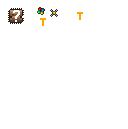
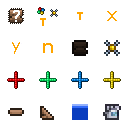
Common and Tile variable textures

diff --git a/ValueProperties/Tile/Mechanic.cs b/ValueProperties/Tile/Mechanic.cs
@@ -14,6 +14,8 @@ namespace TerraIntegration.ValueProperties.Tile
         public override string PropertyDisplay => "Is actuated";
         public override Type VariableReturnType => typeof(Values.Boolean);
 
+        public override SpriteSheetPos SpriteSheetPos => new(TileSheet, 2, 1);
+
         public override VariableValue GetProperty(ComponentSystem system, Values.Tile value, List<Error> errors)
             => new Values.Boolean(value.Actuated);
     }
@@ -23,6 +25,8 @@ namespace TerraIntegration.ValueProperties.Tile
         public override string PropertyName => "actuator";
         public override string PropertyDisplay => "Has actuator";
         public override Type VariableReturnType => typeof(Values.Boolean);
+
+        public override SpriteSheetPos SpriteSheetPos => new(TileSheet, 3, 1);
 
         public override VariableValue GetProperty(ComponentSystem system, Values.Tile value, List<Error> errors)
             => new Values.Boolean(value.Actuator);
@@ -34,6 +38,8 @@ namespace TerraIntegration.ValueProperties.Tile
         public override string PropertyDisplay => "Has red wire";
         public override Type VariableReturnType => typeof(Values.Boolean);
 
+        public override SpriteSheetPos SpriteSheetPos => new(TileSheet, 0, 2);
+
         public override VariableValue GetProperty(ComponentSystem system, Values.Tile value, List<Error> errors)
             => new Values.Boolean(value.RedWire);
     }
@@ -43,6 +49,8 @@ namespace TerraIntegration.ValueProperties.Tile
         public override string PropertyName => "wireGreen";
         public override string PropertyDisplay => "Has green wire";
         public override Type VariableReturnType => typeof(Values.Boolean);
+
+        public override SpriteSheetPos SpriteSheetPos => new(TileSheet, 1, 2);
 
         public override VariableValue GetProperty(ComponentSystem system, Values.Tile value, List<Error> errors)
             => new Values.Boolean(value.GreenWire);
@@ -54,6 +62,8 @@ namespace TerraIntegration.ValueProperties.Tile
         public override string PropertyDisplay => "Has blue wire";
         public override Type VariableReturnType => typeof(Values.Boolean);
 
+        public override SpriteSheetPos SpriteSheetPos => new(TileSheet, 2, 2);
+
         public override VariableValue GetProperty(ComponentSystem system, Values.Tile value, List<Error> errors)
             => new Values.Boolean(value.BlueWire);
     }
@@ -63,6 +73,8 @@ namespace TerraIntegration.ValueProperties.Tile
         public override string PropertyName => "wireYellow";
         public override string PropertyDisplay => "Has yellow wire";
         public override Type VariableReturnType => typeof(Values.Boolean);
+
+        public override SpriteSheetPos SpriteSheetPos => new(TileSheet, 3, 2);
 
         public override VariableValue GetProperty(ComponentSystem system, Values.Tile value, List<Error> errors)
             => new Values.Boolean(value.YellowWire);

diff --git a/ValueProperties/Tile/Frame.cs b/ValueProperties/Tile/Frame.cs
@@ -1,8 +1,5 @@
 using System;
 using System.Collections.Generic;
-using System.Linq;
-using System.Text;
-using System.Threading.Tasks;
 using TerraIntegration.Basic;
 using TerraIntegration.DataStructures;
 using TerraIntegration.Values;
@@ -14,6 +11,8 @@ namespace TerraIntegration.ValueProperties.Tile
         public override Type[] ValueTypes => new[] { typeof(Values.Tile), typeof(Wall) };
         public override string PropertyName => "frameX";
         public override string PropertyDisplay => "Frame X";
+
+        public override SpriteSheetPos SpriteSheetPos => new(TileSheet, 3, 0);
 
         public override Type VariableReturnType => typeof(Integer);
 
@@ -33,6 +32,8 @@ namespace TerraIntegration.ValueProperties.Tile
         public override string PropertyName => "frameY";
         public override string PropertyDisplay => "Frame Y";
 
+        public override SpriteSheetPos SpriteSheetPos => new(TileSheet, 0, 1);
+
         public override Type VariableReturnType => typeof(Integer);
 
         public override VariableValue GetProperty(ComponentSystem system, VariableValue value, List<Error> errors)
@@ -50,6 +51,8 @@ namespace TerraIntegration.ValueProperties.Tile
         public override Type[] ValueTypes => new[] { typeof(Values.Tile), typeof(Wall) };
         public override string PropertyName => "frameNum";
         public override string PropertyDisplay => "Frame Number";
+
+        public override SpriteSheetPos SpriteSheetPos => new(TileSheet, 1, 1);
 
         public override Type VariableReturnType => typeof(Integer);
 

diff --git a/DebugCommand.cs b/DebugCommand.cs
@@ -105,7 +105,7 @@ namespace TerraIntegration
                 if (val.Type != "any" && val.Type != "unloaded")
                 {
                     allValues++;
-                    if (val.Texture is null && (val.SpriteSheetPos.SpriteSheet ?? val.DefaultSpriteSheet) is null)
+                    if (val.Texture is null && !val.SpriteSheetPos.HasValue)
                         values.Add(val.Type);
                 }
 
@@ -113,7 +113,7 @@ namespace TerraIntegration
                 if (var.Type != "any" && var.Type != "unloaded")
                 {
                     allVariables++;
-                    if (var.Texture is null && (var.SpriteSheetPos.SpriteSheet ?? var.DefaultSpriteSheet) is null)
+                    if (var.Texture is null && !var.SpriteSheetPos.HasValue)
                         variables.Add(var.Type);
                 }
 

diff --git a/Basic/Variable.cs b/Basic/Variable.cs
@@ -16,6 +16,7 @@ namespace TerraIntegration.Basic
         internal readonly static SpriteSheet CollectionSheet = new("TerraIntegration/Assets/Types/collection", new(32, 32));
         internal readonly static SpriteSheet BooleanSheet = new("TerraIntegration/Assets/Types/boolean", new(32, 32));
         internal readonly static SpriteSheet ComparingSheet = new("TerraIntegration/Assets/Types/comparing", new(32, 32));
+        internal readonly static SpriteSheet TileSheet = new("TerraIntegration/Assets/Types/tile", new(32, 32));
 
         public virtual Mod Mod => ModContent.GetInstance<TerraIntegration>();
         public static ComponentWorld World => ModContent.GetInstance<ComponentWorld>();

diff --git a/DataStructures/SpriteSheetPos.cs b/DataStructures/SpriteSheetPos.cs
@@ -6,8 +6,11 @@
         public int X;
         public int Y;
 
+        public bool HasValue;
+
         public SpriteSheetPos(SpriteSheet spriteSheet, int spriteX, int spriteY)
         {
+            HasValue = true;
             SpriteSheet = spriteSheet;
             X = spriteX;
             Y = spriteY;
@@ -15,6 +18,7 @@
 
         public SpriteSheetPos(int spriteX, int spriteY)
         {
+            HasValue = true;
             SpriteSheet = null;
             X = spriteX;
             Y = spriteY;

diff --git a/ValueProperties/Tile/TileHalf.cs b/ValueProperties/Tile/TileHalf.cs
@@ -10,6 +10,8 @@ namespace TerraIntegration.ValueProperties.Tile
         public override string PropertyName => "half";
         public override string PropertyDisplay => "Is half block";
 
+        public override SpriteSheetPos SpriteSheetPos => new(TileSheet, 0, 3);
+
         public override Type VariableReturnType => typeof(Values.Boolean);
 
         public override VariableValue GetProperty(ComponentSystem system, Values.Tile value, List<Error> errors)

diff --git a/ValueProperties/Tile/TileWallColor.cs b/ValueProperties/Tile/TileWallColor.cs
@@ -15,6 +15,8 @@ namespace TerraIntegration.ValueProperties.Tile
         public override string PropertyName => "tileWallColor";
         public override string PropertyDisplay => "Color";
 
+        public override SpriteSheetPos SpriteSheetPos => new(TileSheet, 3, 3);
+
         public override Type VariableReturnType => typeof(Values.Byte);
 
         public override VariableValue GetProperty(ComponentSystem system, VariableValue value, List<Error> errors)

diff --git a/ValueProperties/Tile/TileLiquid.cs b/ValueProperties/Tile/TileLiquid.cs
@@ -13,6 +13,8 @@ namespace TerraIntegration.ValueProperties.Tile
         public override string PropertyName => "liquid";
         public override string PropertyDisplay => "Liquid level";
 
+        public override SpriteSheetPos SpriteSheetPos => new(TileSheet, 2, 3);
+
         public override Type VariableReturnType => typeof(Values.Byte);
 
         public override VariableValue GetProperty(ComponentSystem system, Values.Tile value, List<Error> errors)

diff --git a/ValueProperties/Tile/TileSlope.cs b/ValueProperties/Tile/TileSlope.cs
@@ -10,6 +10,8 @@ namespace TerraIntegration.ValueProperties.Tile
         public override string PropertyName => "slope";
         public override string PropertyDisplay => "Slope type";
 
+        public override SpriteSheetPos SpriteSheetPos => new(TileSheet, 1, 3);
+
         public override Type VariableReturnType => typeof(Values.Byte);
 
         public override VariableValue GetProperty(ComponentSystem system, Values.Tile value, List<Error> errors)

diff --git a/ValueProperties/Type.cs b/ValueProperties/Type.cs
@@ -16,6 +16,8 @@ namespace TerraIntegration.ValueProperties
         public override string PropertyName => "type";
         public override string PropertyDisplay => "Type";
 
+        public override SpriteSheetPos SpriteSheetPos => new(BasicSheet, 1, 2);
+
         public override Type VariableReturnType => typeof(Integer);
 
         public override VariableValue GetProperty(ComponentSystem system, VariableValue value, List<Error> errors)

diff --git a/Variables/TernaryOp.cs b/Variables/TernaryOp.cs
@@ -18,6 +18,8 @@ namespace TerraIntegration.Variables
         public override string Type => "tern";
         public override string TypeDisplay => "Ternary operator";
 
+        public override SpriteSheetPos SpriteSheetPos => new(BasicSheet, 3, 2);
+
         public override Type[] RelatedTypes => new[] { typeof(Values.Boolean) };
 
         public Guid Condition, TrueValue, FalseValue;

diff --git a/Variables/StringFormat.cs b/Variables/StringFormat.cs
@@ -16,6 +16,8 @@ namespace TerraIntegration.Variables
         public override string Type => "strFormat";
         public override string TypeDisplay => "Format";
 
+        public override SpriteSheetPos SpriteSheetPos => new(BasicSheet, 2, 2);
+
         public override Type[] LeftSlotValueTypes => new[] { typeof(Values.String) };
         List<string> Strings = new();
 
